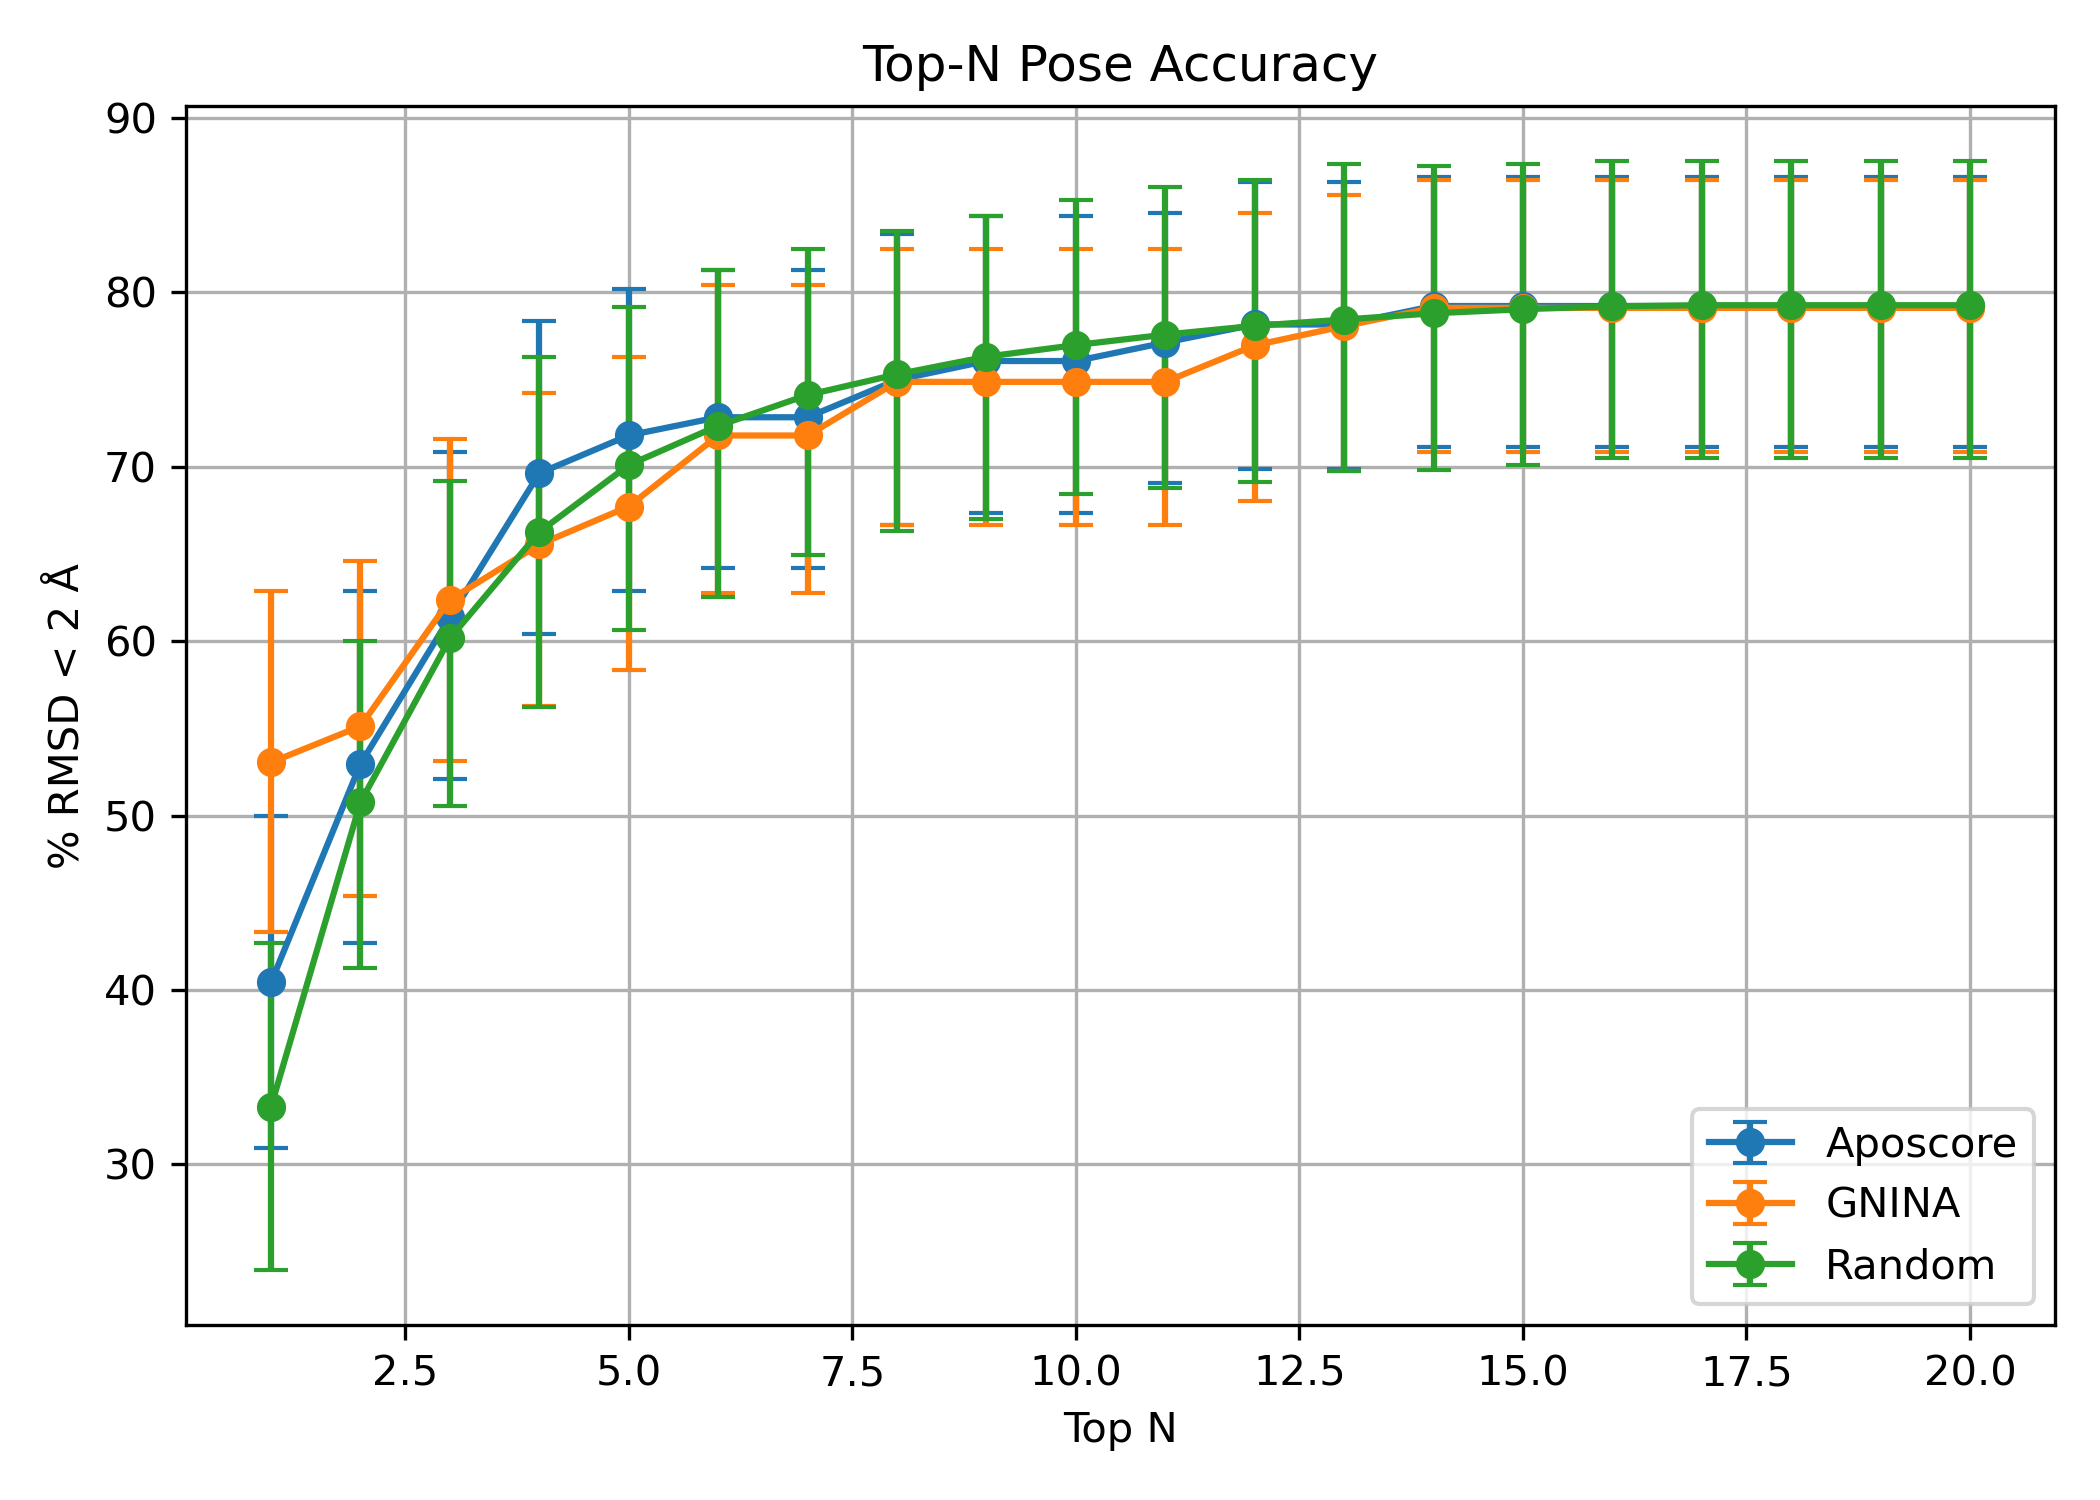
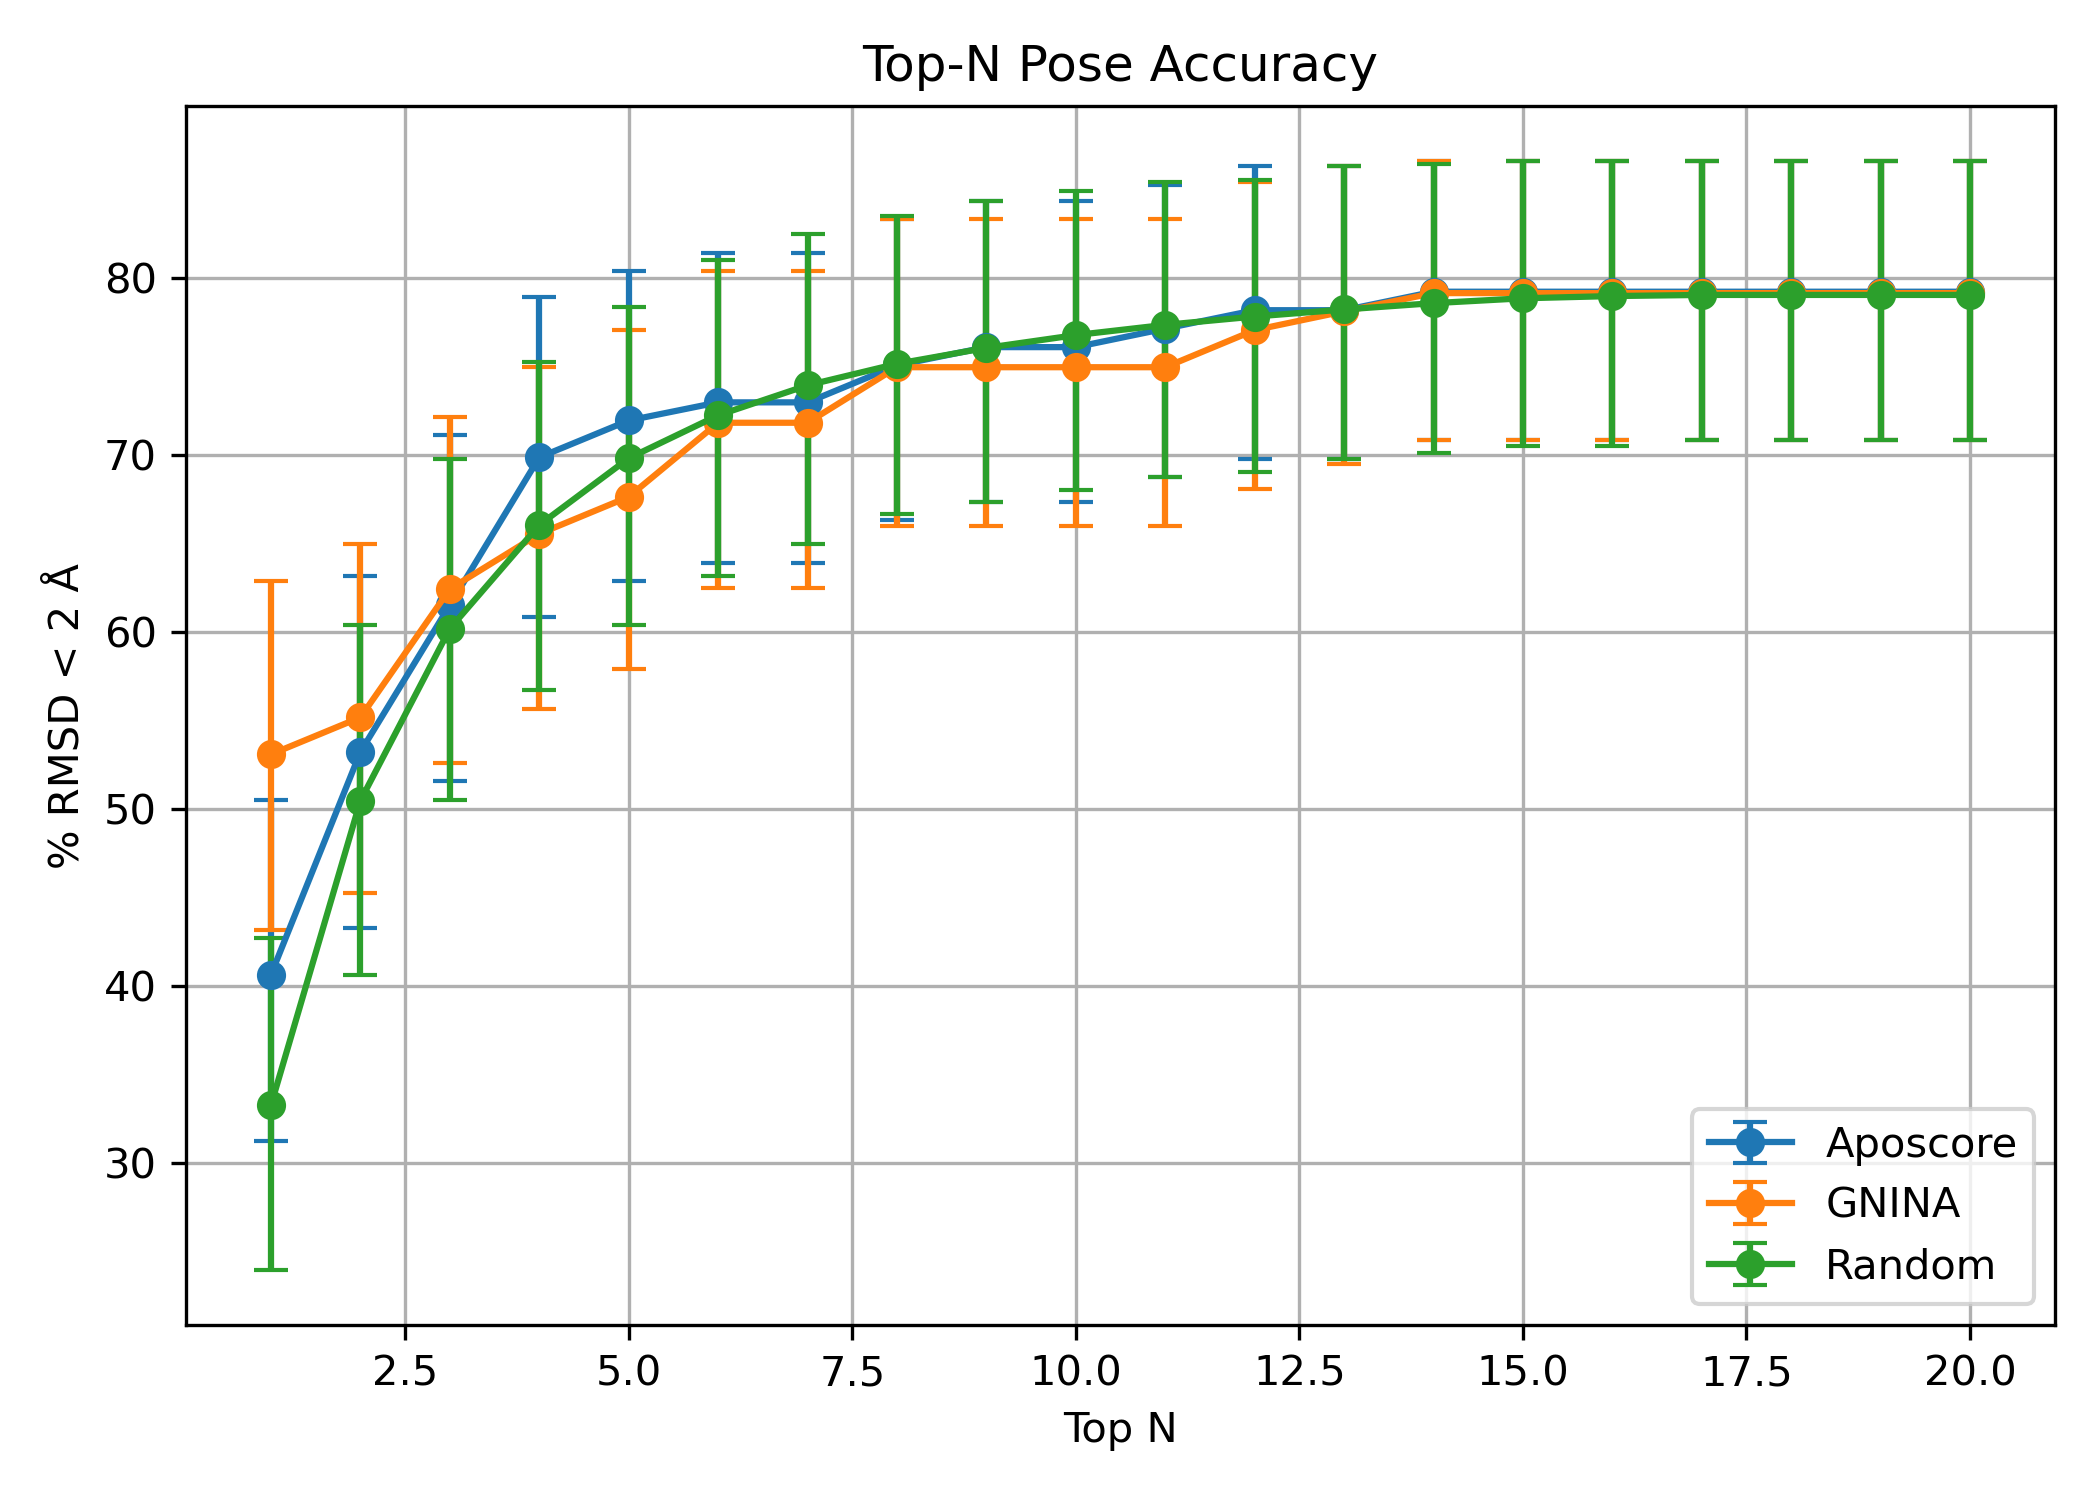
bootsptrapping updated 4

diff --git a/mers-full-size/bootstrapping.py b/mers-full-size/bootstrapping.py
@@ -154,7 +154,7 @@ def bootstrap_method_fast(
     method_name,
     rmsd_data,
     n_mols,
-    n_bootstrap=1000,
+    n_bootstrap=10000,
     max_N=20,
     rmsd_threshold=2.0
 ):
